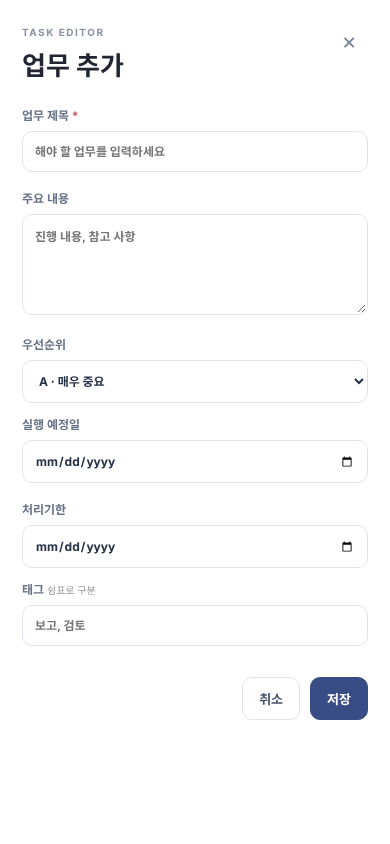
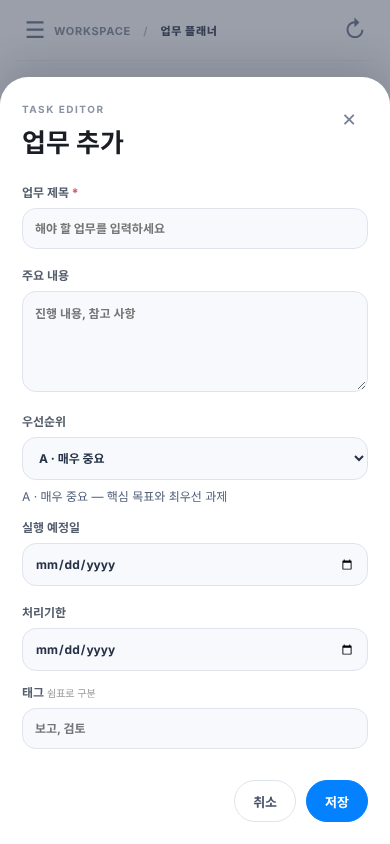
docs(readme): 현재 디자인 기준 화면 안내와 캡처 갱신
모바일 하단 바·+ 버튼·메뉴 동작, 편집 창 등급 설명을 반영하고
PC·모바일 캡처를 최신 빌드로 교체했다.

Claude-Session: https://claude.ai/code/session_01CQP5aHJhGiPwNL25oNCZ15

diff --git a/README.md b/README.md
@@ -39,7 +39,7 @@ npm run test:browser
 
 ## 현재 구현 범위
 
-업무 추가/수정, A/B/C 등급 목록, 순번 숫자 입력·위아래 이동·마우스 드래그·터치 드래그(Chromium 에뮬레이션 검증), 검색·태그 필터, 완료 모드, 완료 취소, 이월 미리보기와 부분 취소, 휴지통·복원·영구 삭제, JSON 내보내기·가져오기, 손상 원본 내보내기·복구 모드 화면이 연결돼 있습니다. **v3.5의 태그 관리 창(이름 변경·병합·삭제)은 아직 구현되지 않았습니다.**
+업무 추가/수정, A/B/C 등급 목록과 편집 창의 등급 설명 표시, 순번 숫자 입력·위아래 이동·마우스 드래그·터치 드래그(Chromium 에뮬레이션 검증), 검색·태그 필터, 완료 모드, 완료 취소, 이월 미리보기와 부분 취소, 휴지통·복원·영구 삭제, JSON 내보내기·가져오기, 손상 원본 내보내기·복구 모드 화면이 연결돼 있습니다. 모바일에서는 하단 메뉴 바(업무·완료·휴지통·메뉴)와 + 버튼으로 주요 화면을 오갑니다. **v3.5의 태그 관리 창(이름 변경·병합·삭제)은 아직 구현되지 않았습니다.**
 
 ## 화면 안내
 
@@ -50,9 +50,9 @@ npm run test:browser
 | 화면 | 들어가는 방법 | 설명 |
 | --- | --- | --- |
 | 업무 플래너 | 기본 화면 | A/B/C 등급별 목록, 요약 카드, 검색·태그·등급 필터 |
-| 업무 편집 창 | **+ 업무 추가**, 업무 카드의 **수정** | 제목, 내용, 등급, 실행 예정일, 처리기한, 태그(쉼표 구분) 입력 |
-| 완료한 업무 | 메뉴 → **완료한 업무** | 완료 업무와 **완료 취소** |
-| 휴지통 | 메뉴 → **휴지통** | 삭제 업무의 **복원**, **영구 삭제**, **휴지통 비우기** |
+| 업무 편집 창 | PC: **+ 업무 추가**, 모바일: 하단 **+**, 업무 카드의 **수정** | 제목, 내용, 등급, 실행 예정일, 처리기한, 태그(쉼표 구분) 입력. 등급 선택 아래에 선택한 등급의 설명이 표시됨 |
+| 완료한 업무 | PC: 왼쪽 메뉴 → **완료한 업무**, 모바일: 하단 바 **완료** | 완료 업무와 **완료 취소** |
+| 휴지통 | PC: 왼쪽 메뉴 → **휴지통**, 모바일: 하단 바 **휴지통** | 삭제 업무의 **복원**, **영구 삭제**, **휴지통 비우기** |
 | 완료 모드 | 상단 **완료 모드 OFF/ON** | ON일 때 각 업무의 **조작 영역(수정 버튼 근처)**에 완료 체크박스 표시 |
 | 이월 | 상단 **내일로 이월** | 예정일이 오늘 이전 또는 오늘인 미완료 활성 업무만 내일로 이동. 예정일 없는 업무와 완료·휴지통 업무는 제외. 같은 세션에서 마지막 이월 취소 가능 |
 | 데이터 메뉴 | 왼쪽 메뉴 하단 | JSON 내보내기·가져오기, 저장 원본 복사 |
@@ -81,7 +81,11 @@ npm run test:browser
 
 ![모바일 편집 화면](docs/screenshots/mobile-editor.png)
 
-상단 ☰ 버튼을 누르면 PC의 왼쪽 메뉴가 열립니다. 요약 카드는 2열로 바뀌고 업무 목록과 조작 영역은 화면 폭에 맞춰 세로로 쌓입니다. 태그는 가로 스크롤이 아닌 **여러 줄 줄바꿈**으로 표시됩니다. 터치 드래그는 Chromium 390×844 뷰포트 에뮬레이션에서 검증했으며 Android·iOS **실기기 시험은 아직 하지 않았습니다.**
+화면 아래에는 **업무·완료·휴지통·메뉴** 네 개의 하단 바가 떠 있고, 가운데 **+** 버튼으로 새 업무를 추가합니다. 하단 바와 + 버튼은 업무 편집 창이 열리면 숨겨져 입력란을 가리지 않습니다. **메뉴**를 누르면 PC의 왼쪽 메뉴가 열리며, 항목을 선택하면 닫힙니다. 메뉴 바깥을 눌러 닫는 기능은 아직 없습니다.
+
+![모바일 메뉴 열림](docs/screenshots/mobile-menu.png)
+
+요약 카드는 2열로 바뀌고 업무 목록과 조작 영역은 화면 폭에 맞춰 세로로 쌓입니다. 태그는 가로 스크롤이 아닌 **여러 줄 줄바꿈**으로 표시됩니다. 터치 드래그는 Chromium 390×844 뷰포트 에뮬레이션에서 검증했으며 Android·iOS **실기기 시험은 아직 하지 않았습니다.**
 
 ### 검증 범위
 
